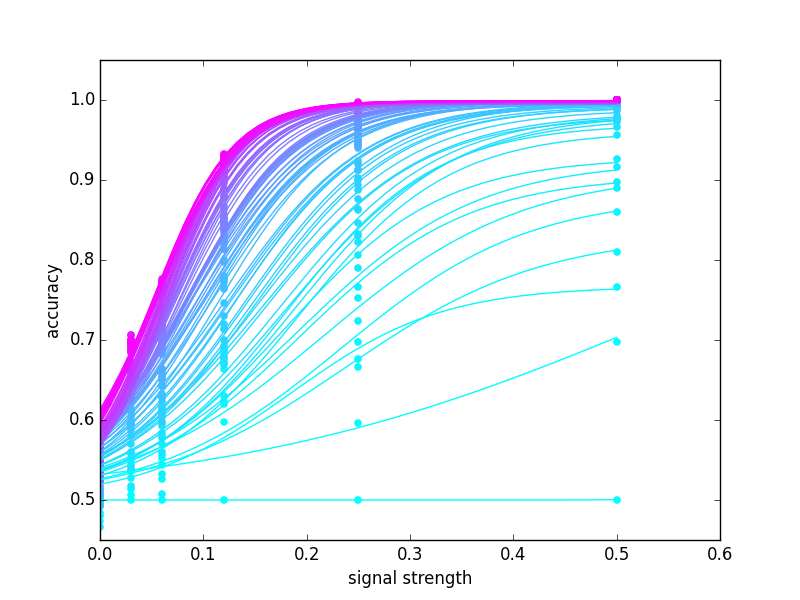
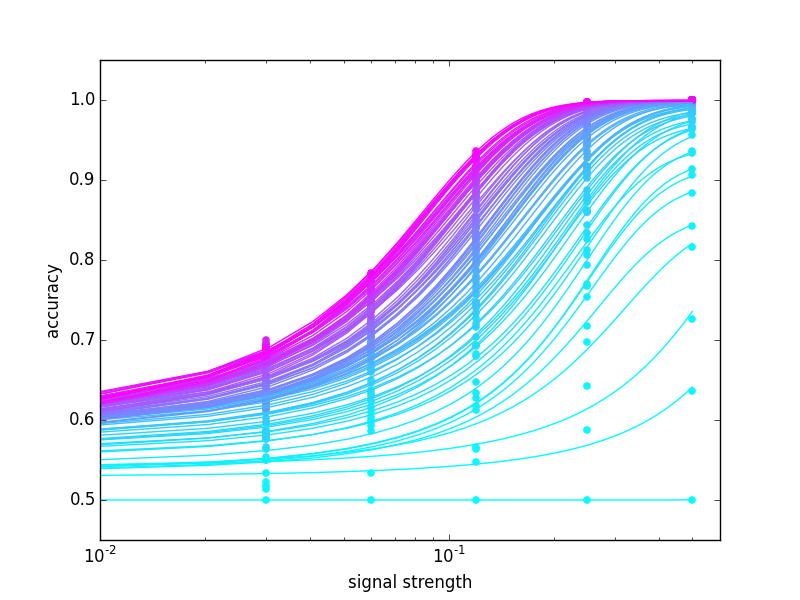
README

diff --git a/plot.py b/plot.py
@@ -18,8 +18,9 @@ def plot_pmf(cohs, pcor, res):
     for i, (theta, thresh) in enumerate(res):
         plt.scatter(cohs, pcor[i, :]/100.0, color=cmap[i])
         plt.plot(xsf, F(xsf, theta), color=cmap[i], linestyle='-')
-    plt.xlim([0, None])
+    plt.xlim([0.01, None])
     plt.ylim([0.45, 1.05])
+    plt.xscale('log')
     plt.xlabel('signal strength')
     plt.ylabel('accuracy')
     plt.show()

diff --git a/README.md b/README.md
@@ -1,10 +1,11 @@
 
 __Goal__: Simulating drift diffusion processes with varying drift and diffusion rates.
+
 __Why__: To model 2AFC discrimination decisions in trials of varying stimulus strengths and durations.
 
 ## The model
 
-On a given time step, a particle's next position is a sample from a gaussian with mean mu ("drift rate") and standard deviation sigma ("diffusion rate").
+On a given time step, a particle's next position is a sample from a gaussian with mean mu ("drift rate") and standard deviation sigma ("diffusion rate"):
 
 x(t+1) = x(t) + N(mu, sigma)
 
@@ -27,5 +28,7 @@ The image below shows the subjects' accuracy as a function of stimulus duration,
 ## Accuracy as a function of stimulus duration
 
 __Usage__: `python sim_pmf.py`
+
+You can also view the accuracy as a function of increasing stimulus duration. In the plot below, the color gradient describes trials of increasing stimulus duration, where pink is the longest duration. Psychometric functions were fit using `psignifit`.
 
 ![pmf](/images/pmf.png?raw=true "pmf")
